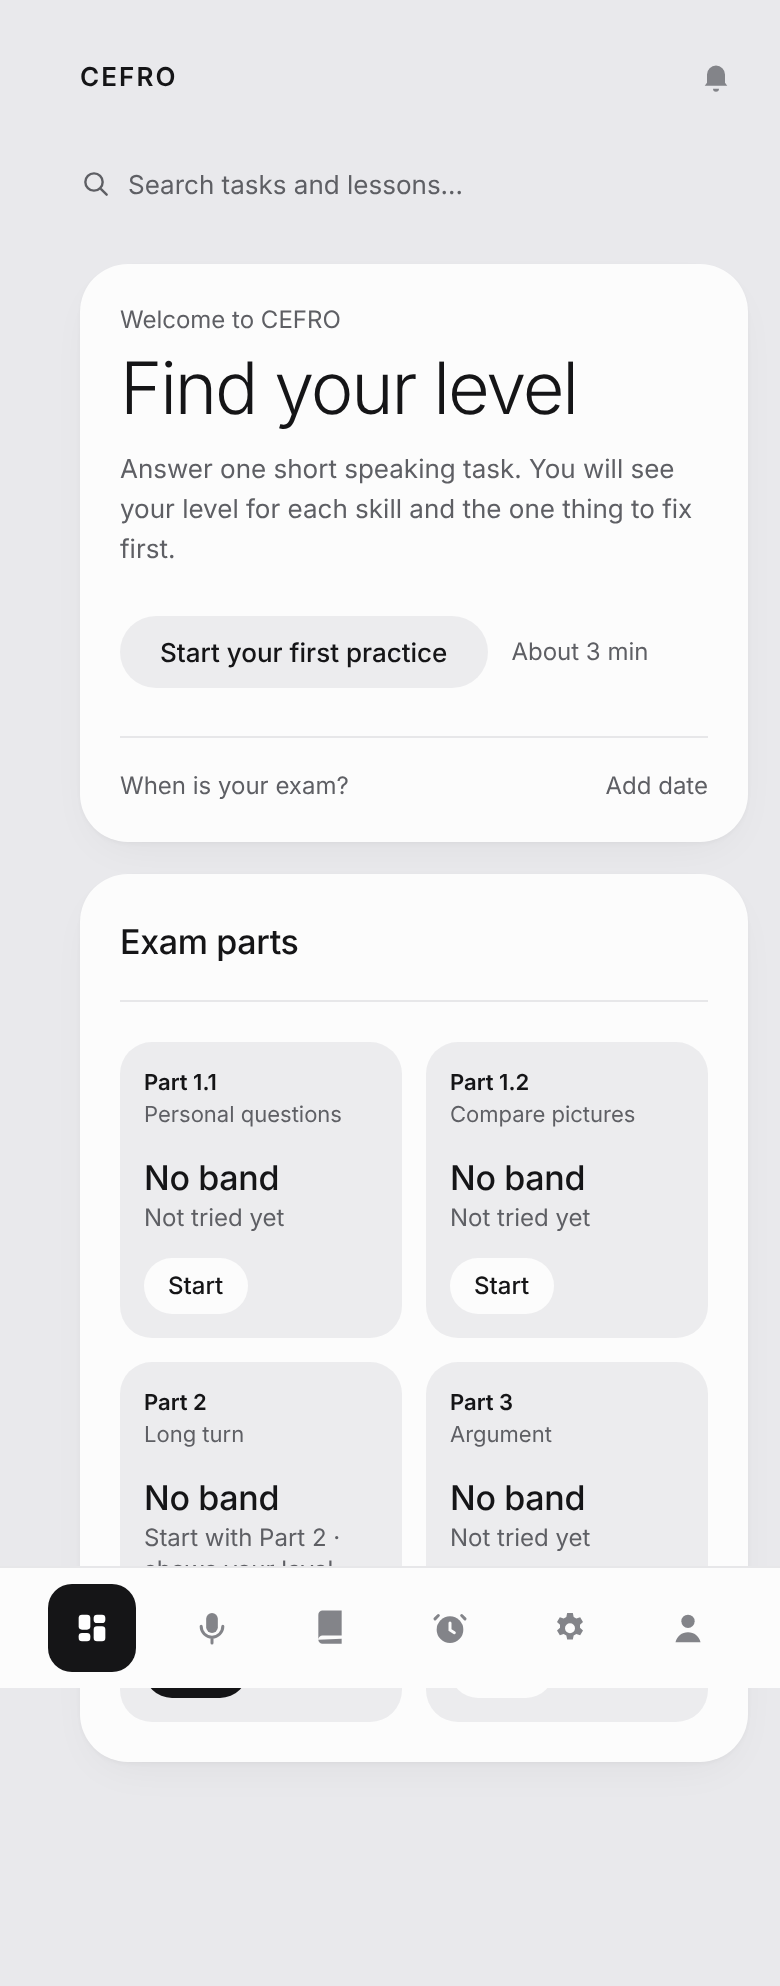
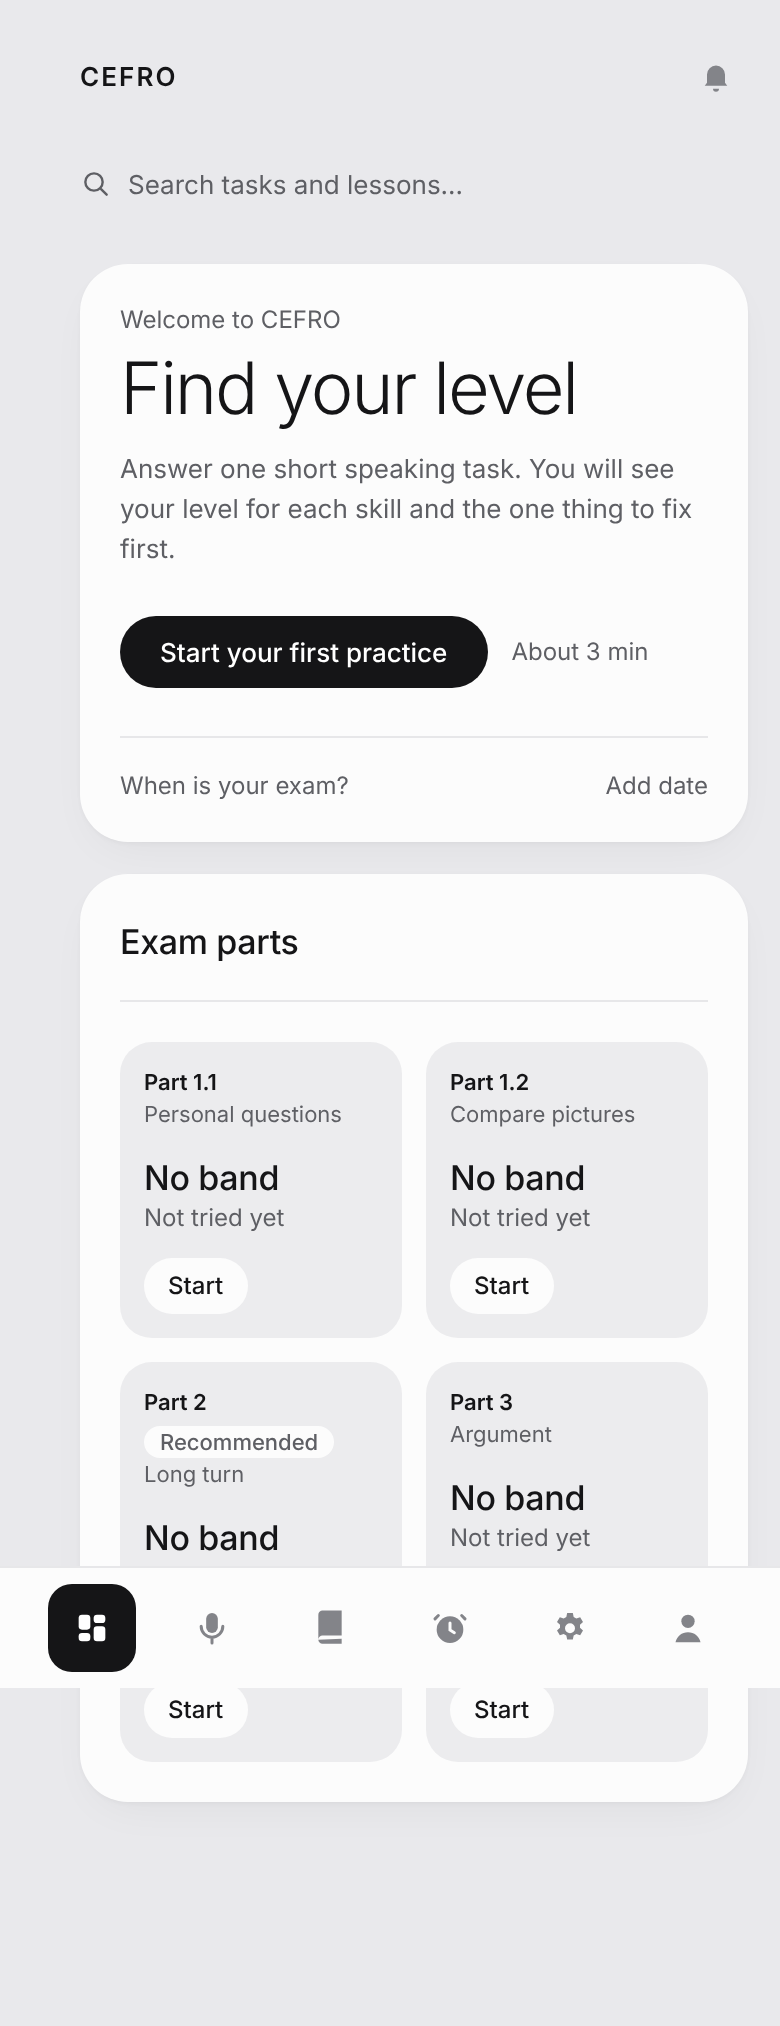
feat(dashboard): first visit's black action is "Start your first practice"
- Welcome card's "Start your first practice" is the one black action (goes to Part 2).
- Part 2 tile keeps its text, gets a small "Recommended" label, and uses the white tile "Start" pill like the others.
- Test: the welcome button goes to the recommended part. First-visit screenshots re-taken.

Claude-Session: https://claude.ai/code/session_012h7y6cJvTRCpDhSXk9zXv1

diff --git a/src/features/dashboard/sections.tsx b/src/features/dashboard/sections.tsx
@@ -73,8 +73,8 @@ export function ExamCountdownCard({ className }: { className?: string }) {
 }
 
 /**
- * First visit. The screen's one black action is the recommended part's Start (Exam parts), so this card's button is
- * the grey pill and goes to the same task. The exam-date prompt is flagged (`examCountdown`).
+ * First visit. "Start your first practice" is the screen's one black action; it goes to the recommended part (Part 2),
+ * whose tile only carries a "Recommended" label. The exam-date prompt is flagged (`examCountdown`).
  */
 export function FindYourLevelCard({ flags, className }: { flags: FeatureFlags; className?: string }) {
   return (
@@ -85,7 +85,7 @@ export function FindYourLevelCard({ flags, className }: { flags: FeatureFlags; c
       </h2>
       <p className="mt-3 max-w-md text-body text-fg-muted">{FIRST_VISIT.text}</p>
       <div className="mt-6 flex flex-wrap items-center gap-3">
-        <PillButton href={FIRST_VISIT.href} variant="quiet">
+        <PillButton href={FIRST_VISIT.href}>
           Start your first practice
         </PillButton>
         <span className="text-label text-fg-muted">About {FIRST_VISIT.minutes} min</span>
@@ -180,17 +180,17 @@ export function ExamPartsCard({ parts, wide = false, className }: { parts: reado
           const tried = p.band !== null;
           return (
             <li key={p.part} className="flex flex-col rounded-tile bg-well p-3">
-              <h3 className="text-caption font-semibold text-fg">{p.part}</h3>
+              <div className="flex flex-wrap items-center justify-between gap-x-2 gap-y-1">
+                <h3 className="whitespace-nowrap text-caption font-semibold text-fg">{p.part}</h3>
+                {p.recommendation && (
+                  <span className="rounded-full bg-card px-2 text-caption font-medium text-fg-muted">Recommended</span>
+                )}
+              </div>
               <p className="truncate text-caption text-fg-muted">{p.name}</p>
               <p className="mt-3 text-title font-medium tracking-[-0.01em] text-fg">{tried ? `Band ${p.band}` : "No band"}</p>
               <p className="text-label text-fg-muted">{p.recommendation ?? p.bandLabel ?? "Not tried yet"}</p>
               <div className="mt-auto pt-3">
-                <PillButton
-                  href={p.href}
-                  variant={p.recommendation ? "primary" : "light"}
-                  size="sm"
-                  label={`${tried ? "Practise" : "Start"} ${p.part}`}
-                >
+                <PillButton href={p.href} variant="light" size="sm" label={`${tried ? "Practise" : "Start"} ${p.part}`}>
                   {tried ? "Practise" : "Start"}
                 </PillButton>
               </div>

diff --git a/src/features/dashboard/mock-data.test.ts b/src/features/dashboard/mock-data.test.ts
@@ -3,7 +3,7 @@ import { bestFitLevel, scoreBand } from "@/domain/evaluation/multilevel/band-sco
 import { FEATURES, type FeatureLevel } from "@/domain/evaluation/multilevel/levels";
 import { multilevelRubricConfigSchema } from "@/domain/evaluation/multilevel/rubric-config";
 import rawQ7 from "@/server/evaluation/rubrics/multilevel_q7.json";
-import { BIGGEST_FIX, EXAM_PARTS, EXAM_PARTS_FIRST_VISIT, PRACTISE_NEXT, PROGRESS, RADAR_AXES, SKILL_LEVELS } from "./mock-data";
+import { BIGGEST_FIX, EXAM_PARTS, EXAM_PARTS_FIRST_VISIT, FIRST_VISIT, PRACTISE_NEXT, PROGRESS, RADAR_AXES, SKILL_LEVELS } from "./mock-data";
 
 const q7 = multilevelRubricConfigSchema.parse(rawQ7);
 
@@ -53,6 +53,7 @@ describe("dashboard mock data matches the scoring rules", () => {
   it("first visit recommends exactly one part (Part 2), and only first visit recommends", () => {
     expect(EXAM_PARTS_FIRST_VISIT.filter((p) => p.recommendation).map((p) => p.part)).toEqual(["Part 2"]);
     expect(EXAM_PARTS.some((p) => p.recommendation)).toBe(false);
+    expect(FIRST_VISIT.href).toBe(EXAM_PARTS_FIRST_VISIT.find((p) => p.recommendation)?.href);
   });
 
   it("Practise next opens its own mock task route and adds up its minutes", () => {

diff --git a/src/features/dashboard/mock-data.ts b/src/features/dashboard/mock-data.ts
@@ -123,7 +123,7 @@ export type ExamPart = {
   band: number | null;
   bandLabel: string | null;
   href: string;
-  /** Set on the one recommended part (first visit): shown on the tile, with the black Start pill. */
+  /** Set on the one recommended part (first visit): shown on the tile with a "Recommended" label. */
   recommendation?: string;
 };
 
@@ -136,7 +136,7 @@ export const EXAM_PARTS: readonly ExamPart[] = [
 
 /**
  * First visit: the same parts, none tried yet. Part 2 is recommended: one answer covers all five skills against the
- * B2 descriptors, so it shows the level fastest. Its tile carries the screen's one black action.
+ * B2 descriptors, so it shows the level fastest. "Start your first practice" (the black action) goes to it.
  */
 export const EXAM_PARTS_FIRST_VISIT: readonly ExamPart[] = EXAM_PARTS.map((p) => ({
   ...p,

diff --git a/docs/design-system.md b/docs/design-system.md
@@ -36,7 +36,7 @@ API routes (`src/app/api/**`) did not move.
 
 Only one near-black (`primary`) action per screen. Every other action uses the grey `quiet` pill (or `light` on a
 `well` tile). Dashboard: returning = "Practise next · Start" (Biggest fix "Start retry" is grey); first visit = the
-recommended part's "Start" (Part 2), so "Start your first practice" is grey and goes to the same task.
+welcome card's "Start your first practice" (it goes to the recommended part, Part 2). All part tiles use the white tile pill.
 
 ## Feature flags
 
@@ -55,10 +55,10 @@ since it leads there.)
 
 - **Returning** (has attempts): Practise next, exam countdown*, Speaking progress + radar, Exam parts, Recent
   attempts, Biggest fix. Phone order: Practise next, countdown*, progress, biggest fix, radar, recent attempts, exam parts.
-- **First visit** (no attempts yet): no level, no chart, no list. "Welcome to CEFRO", "Find your level" with a grey
-  "Start your first practice" button and a small "When is your exam? · Add date" prompt*, then the four exam part tiles
-  (four in a row on desktop). Part 2 is recommended ("Start with Part 2 · shows your level fastest", black Start); the
-  other three use the tile pill.
+- **First visit** (no attempts yet): no level, no chart, no list. "Welcome to CEFRO", "Find your level" with the black
+  "Start your first practice" button (goes to Part 2) and a small "When is your exam? · Add date" prompt*, then the four exam part tiles
+  (four in a row on desktop). Part 2 is recommended: a small "Recommended" label and "Start with Part 2 · shows your
+  level fastest"; all four tiles use the same white tile "Start" pill.
 - **Account** (with Log out) is always in the nav, whatever the flags. It opens a small menu: mocked name and email,
   then Log out (the app's real sign-out endpoint, then the sign-in page).
 - **Practise next** opens its task directly. The task is mocked, so it opens a mock route,
